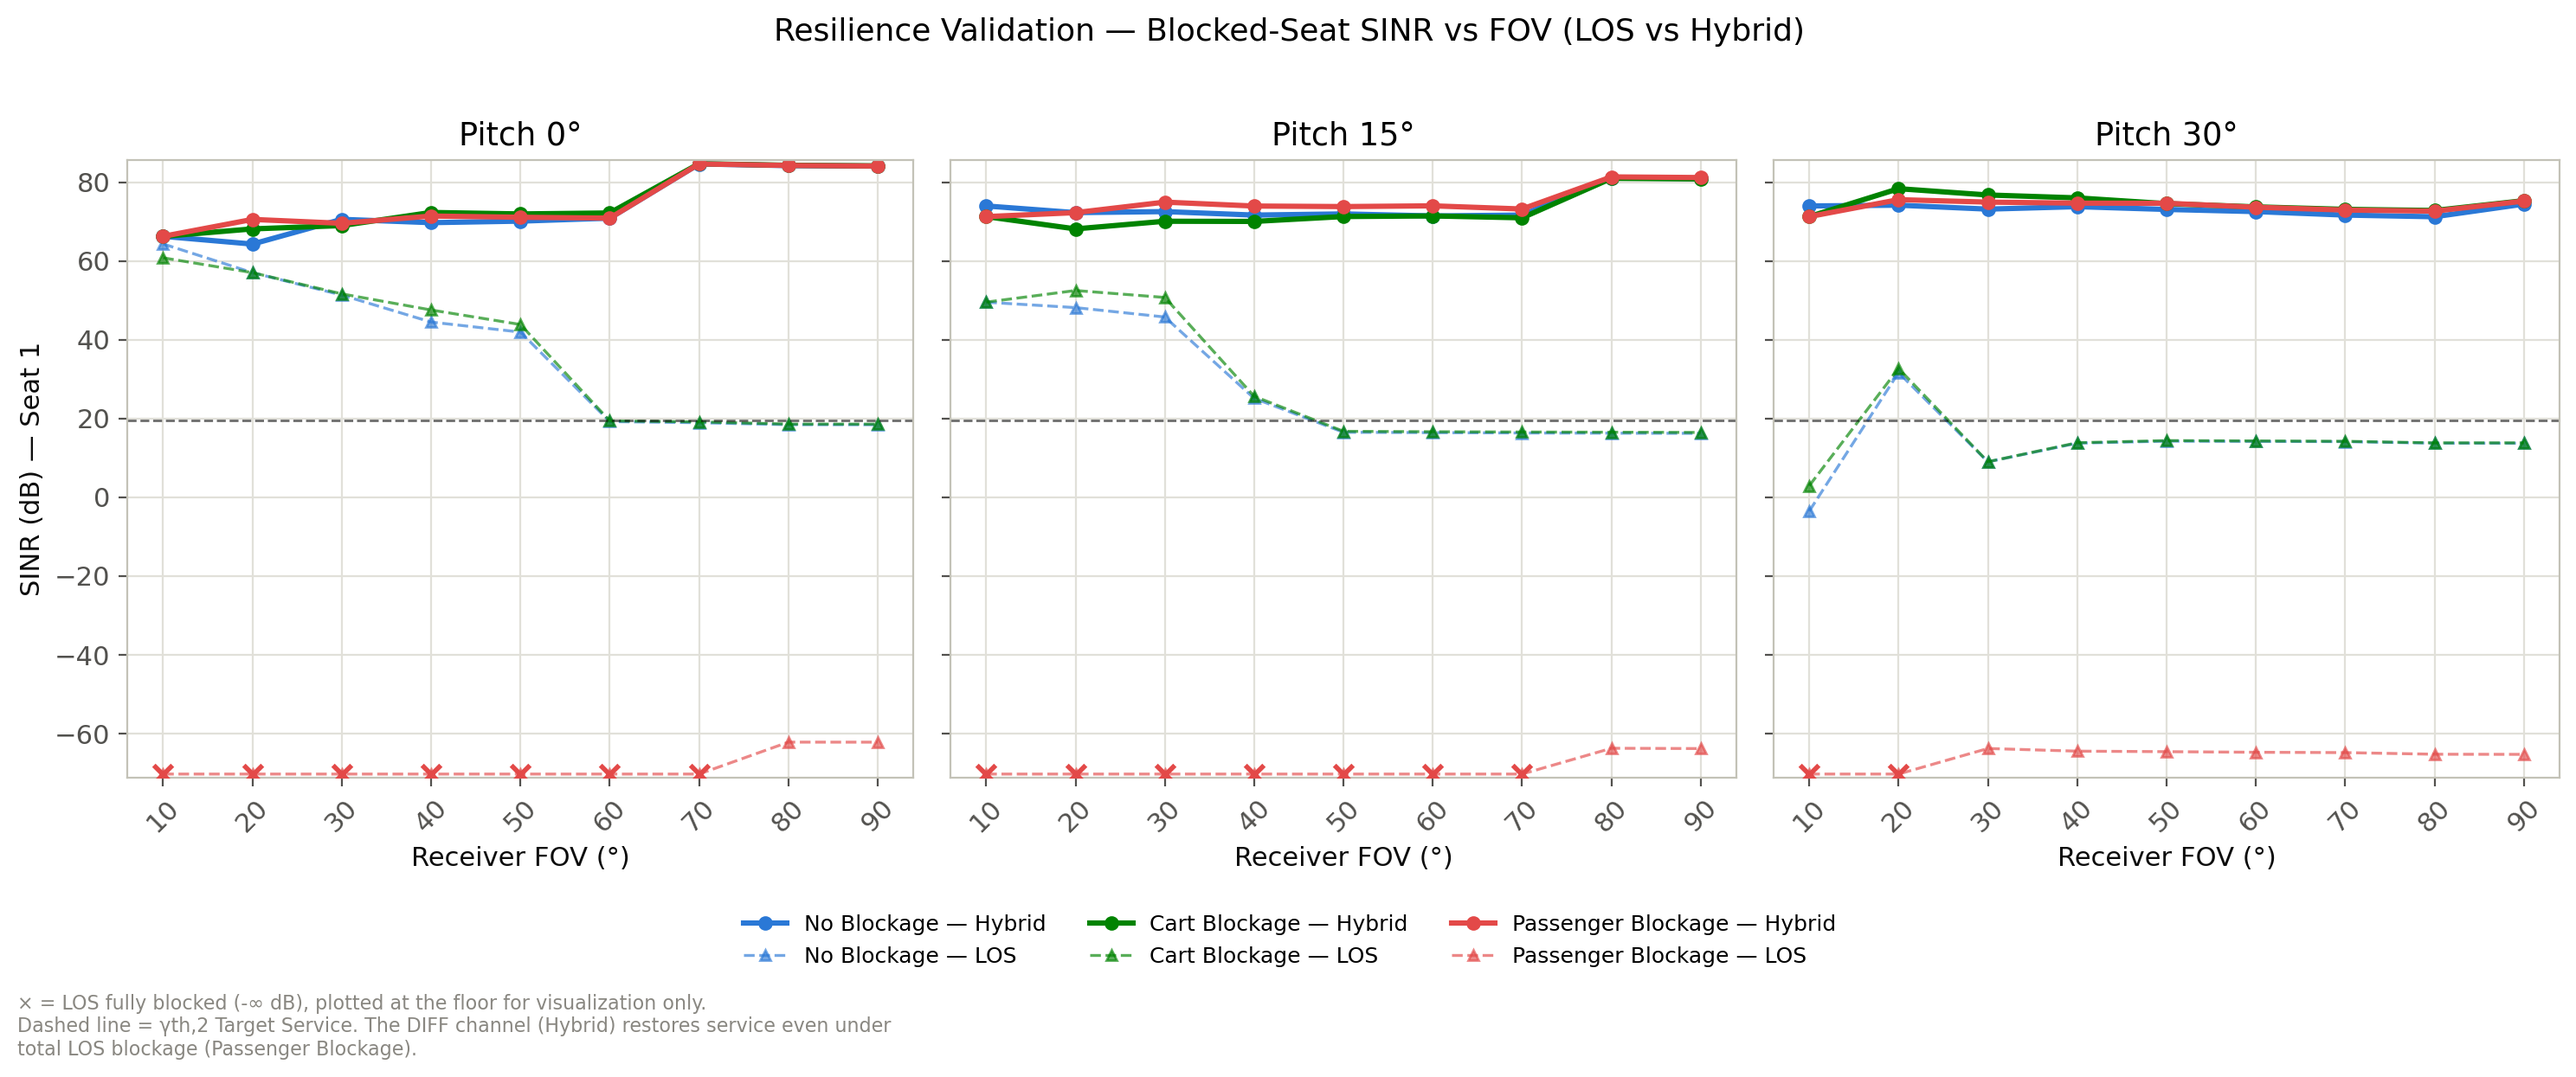
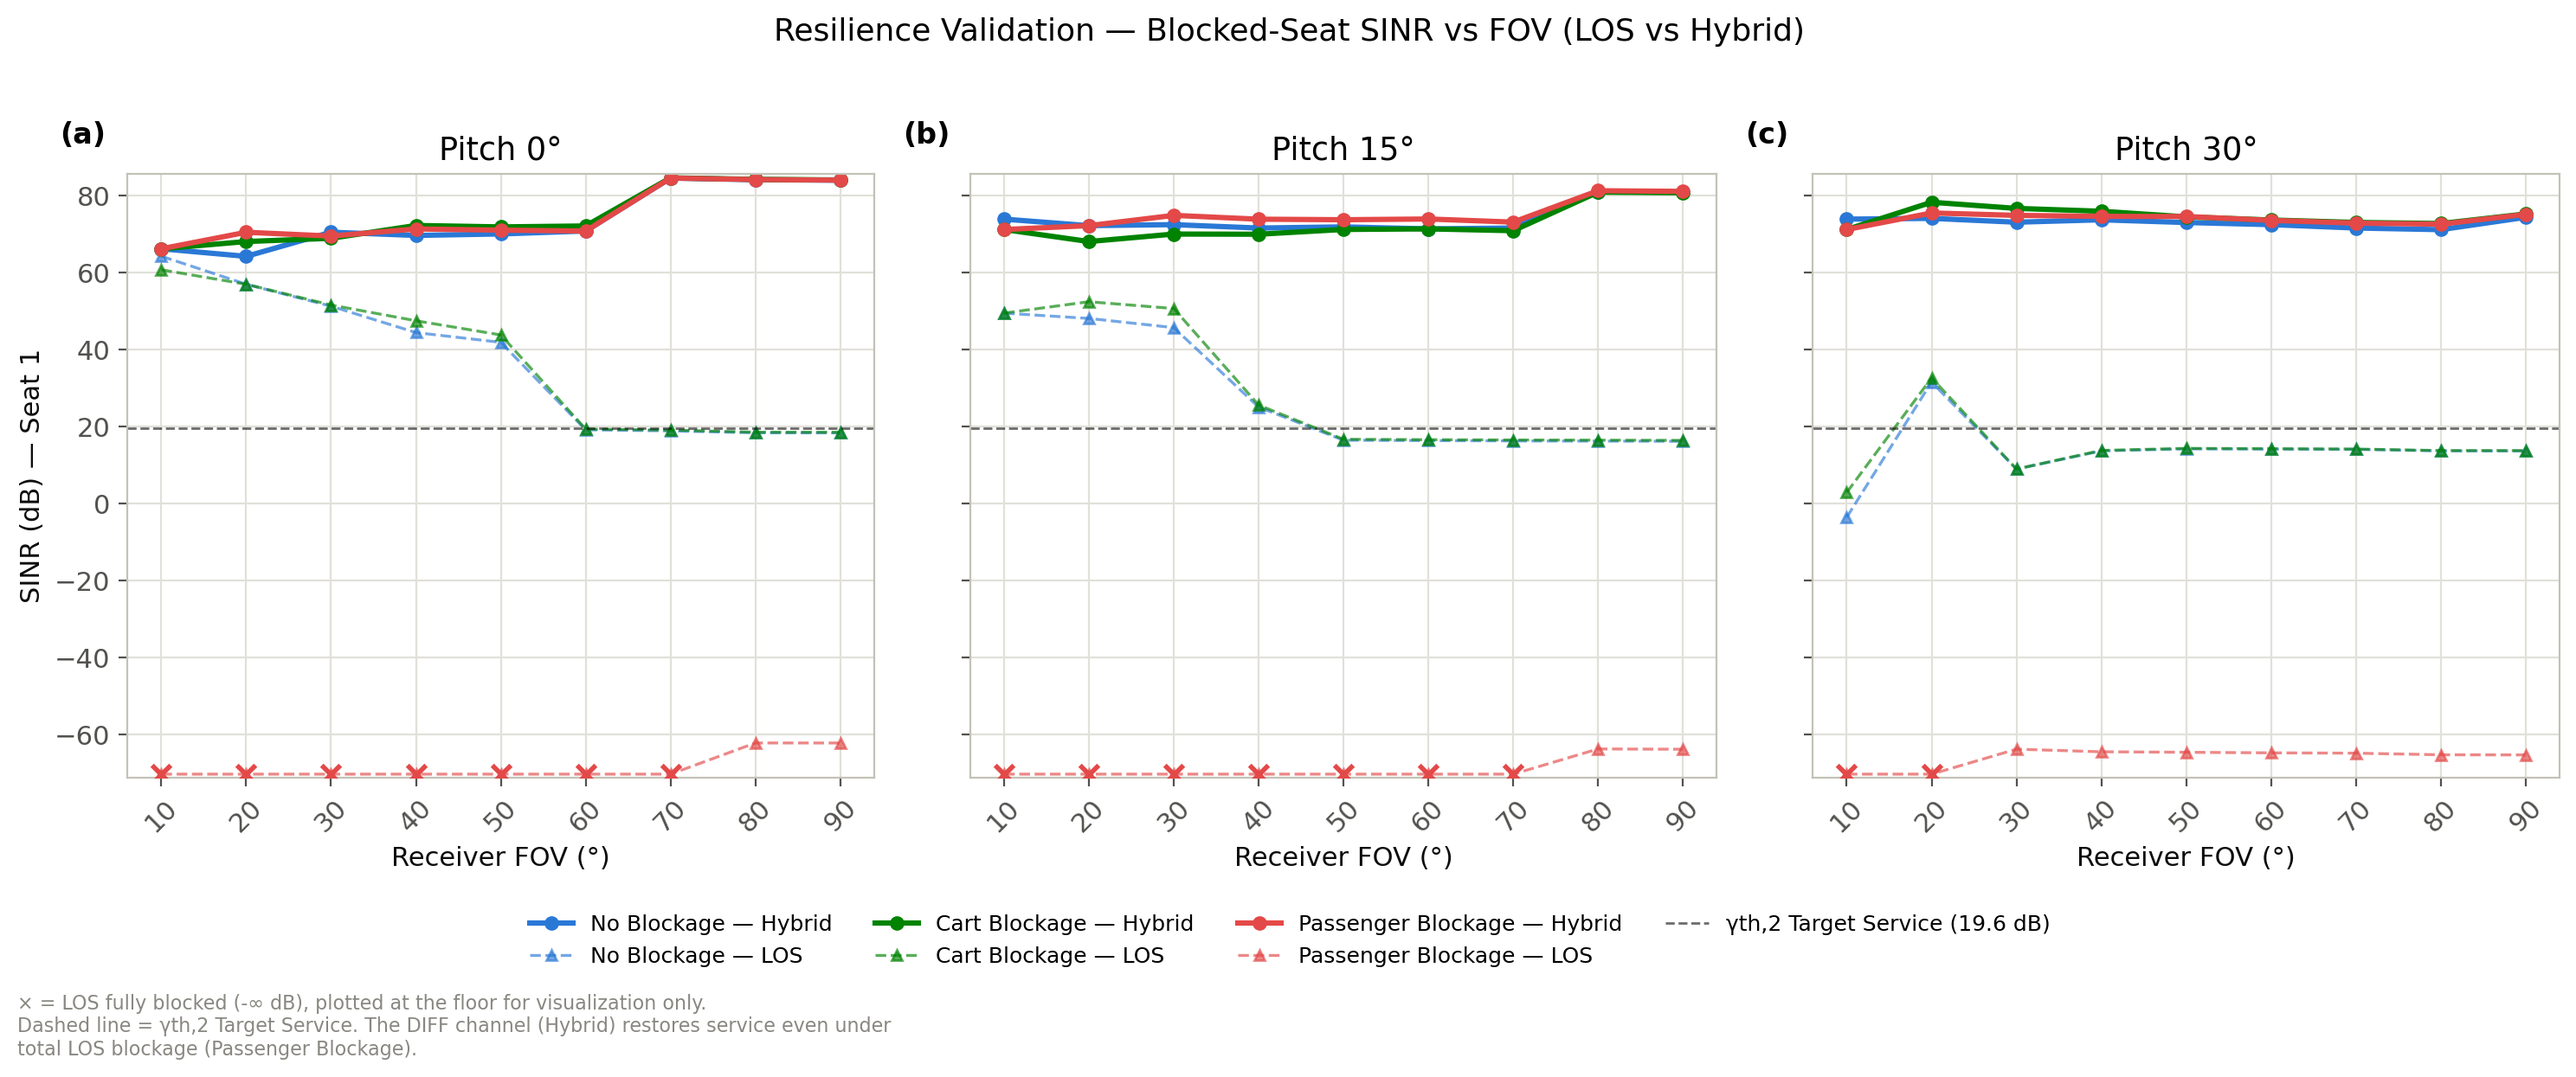
Agregar etiquetas (a)(b)(c) y la linea de umbral a la leyenda en la figura de resiliencia
resilience_validation.png (y su version en espanol) no tenia marcadas las
3 subfiguras como paneles independientes (a)/(b)/(c), y la linea gris
punteada de gamma_th,2 no aparecia en la leyenda aunque si en el grafico.

diff --git a/codigo_comun/generar_comparacion_escenarios_oficial.py b/codigo_comun/generar_comparacion_escenarios_oficial.py
@@ -230,15 +230,22 @@ def generar(lang):
             if bloqueados:
                 ax.scatter(bloqueados, [floor_dB] * len(bloqueados), marker="x", s=60,
                            color=COLOR_ESCENARIO[esc], zorder=5, linewidths=2.0)
-        ax.axhline(gamma_th2_dB, color="#0b0b0b", linestyle="--", linewidth=1.0, alpha=0.6)
+        ax.axhline(gamma_th2_dB, color="#0b0b0b", linestyle="--", linewidth=1.0, alpha=0.6,
+                   label=(f"γth,2 Servicio Objetivo ({gamma_th2_dB:.1f} dB)" if es
+                          else f"γth,2 Target Service ({gamma_th2_dB:.1f} dB)"))
         ax.set_title(f"Pitch {p}°")
         ax.set_xlabel("FOV del receptor (°)" if es else "Receiver FOV (°)")
         ax.set_xticks(fovs_ref)
         ax.tick_params(axis='x', labelrotation=45)
+    for i, ax in enumerate(axes):
+        letra = "abc"[i]
+        ax.annotate(f"({letra})", xy=(0.0, 1.0), xycoords="axes fraction",
+                    xytext=(-28, 22), textcoords="offset points",
+                    fontsize=12, fontweight="bold", va="top", ha="left")
     axes[0].set_ylabel(("SINR (dB) — Asiento 1" if es else "SINR (dB) — Seat 1"))
     axes[0].set_ylim(floor_dB - 1.0, max(all_finite) + 1.0)
     handles, labels = axes[0].get_legend_handles_labels()
-    fig.legend(handles, labels, loc="lower center", bbox_to_anchor=(0.5, -0.1), ncol=3, frameon=False, fontsize=9)
+    fig.legend(handles, labels, loc="lower center", bbox_to_anchor=(0.5, -0.1), ncol=4, frameon=False, fontsize=9)
     if es:
         fig.suptitle("Validación de Resiliencia — SINR del asiento bloqueado vs FOV (LOS vs Hybrid)", fontsize=13, y=1.02)
         fig.text(0.01, -0.18, "× = LOS totalmente bloqueado (-∞ dB), graficado en el piso solo para visualización.\n"
